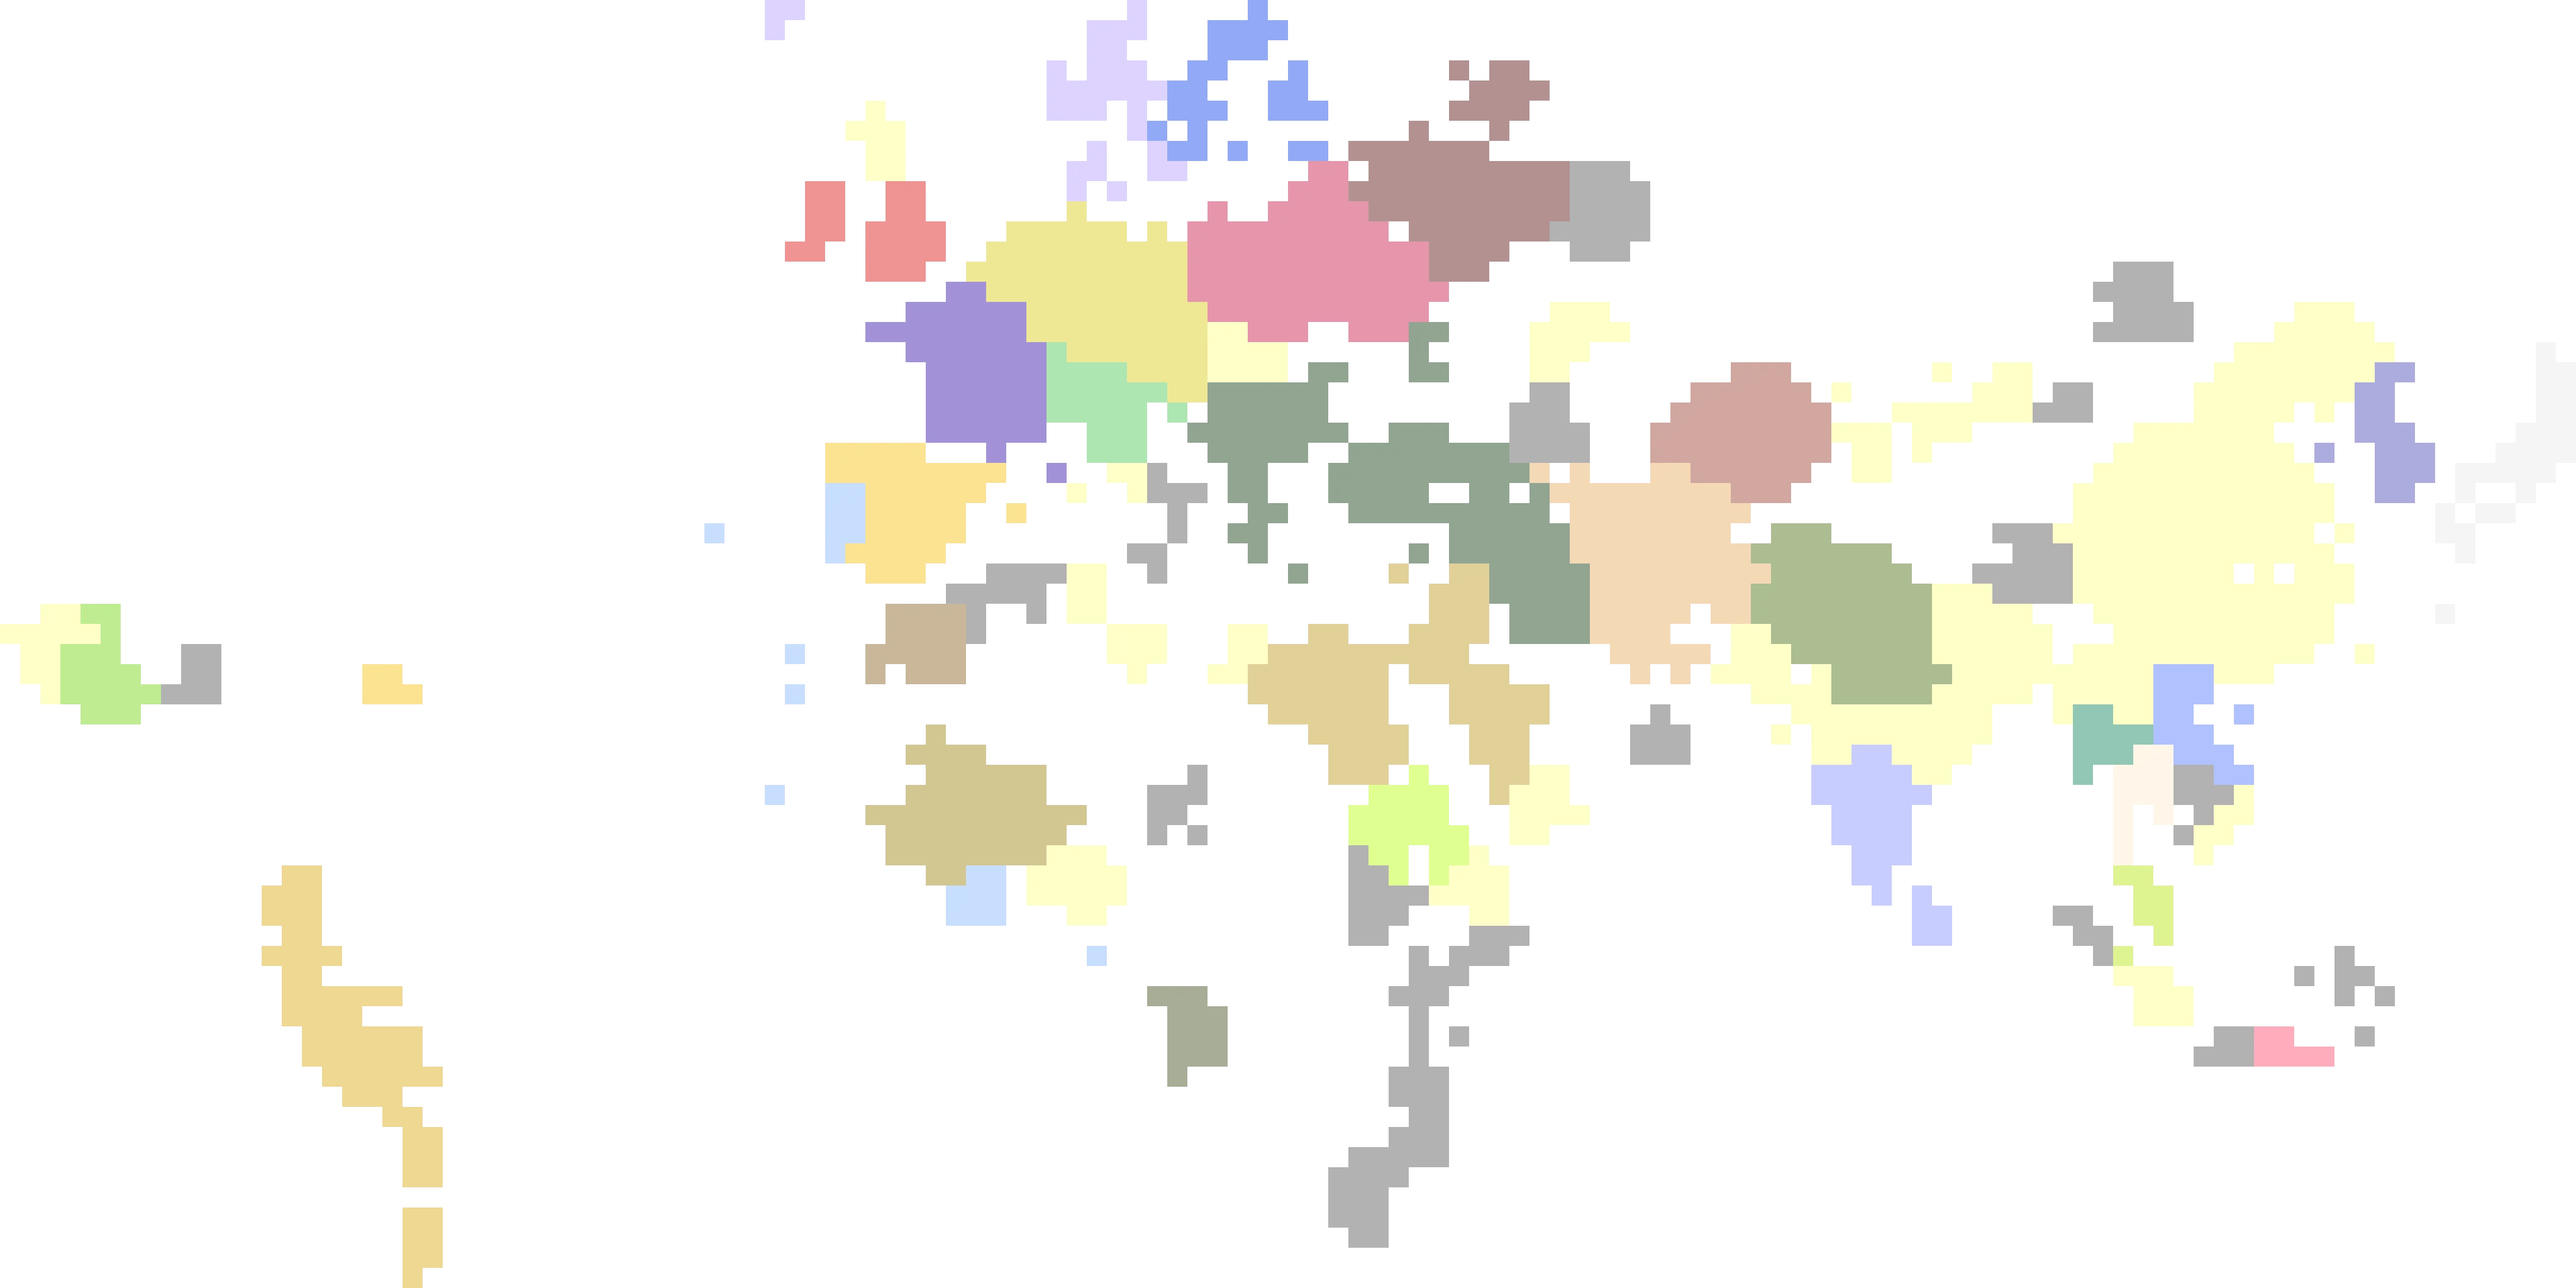
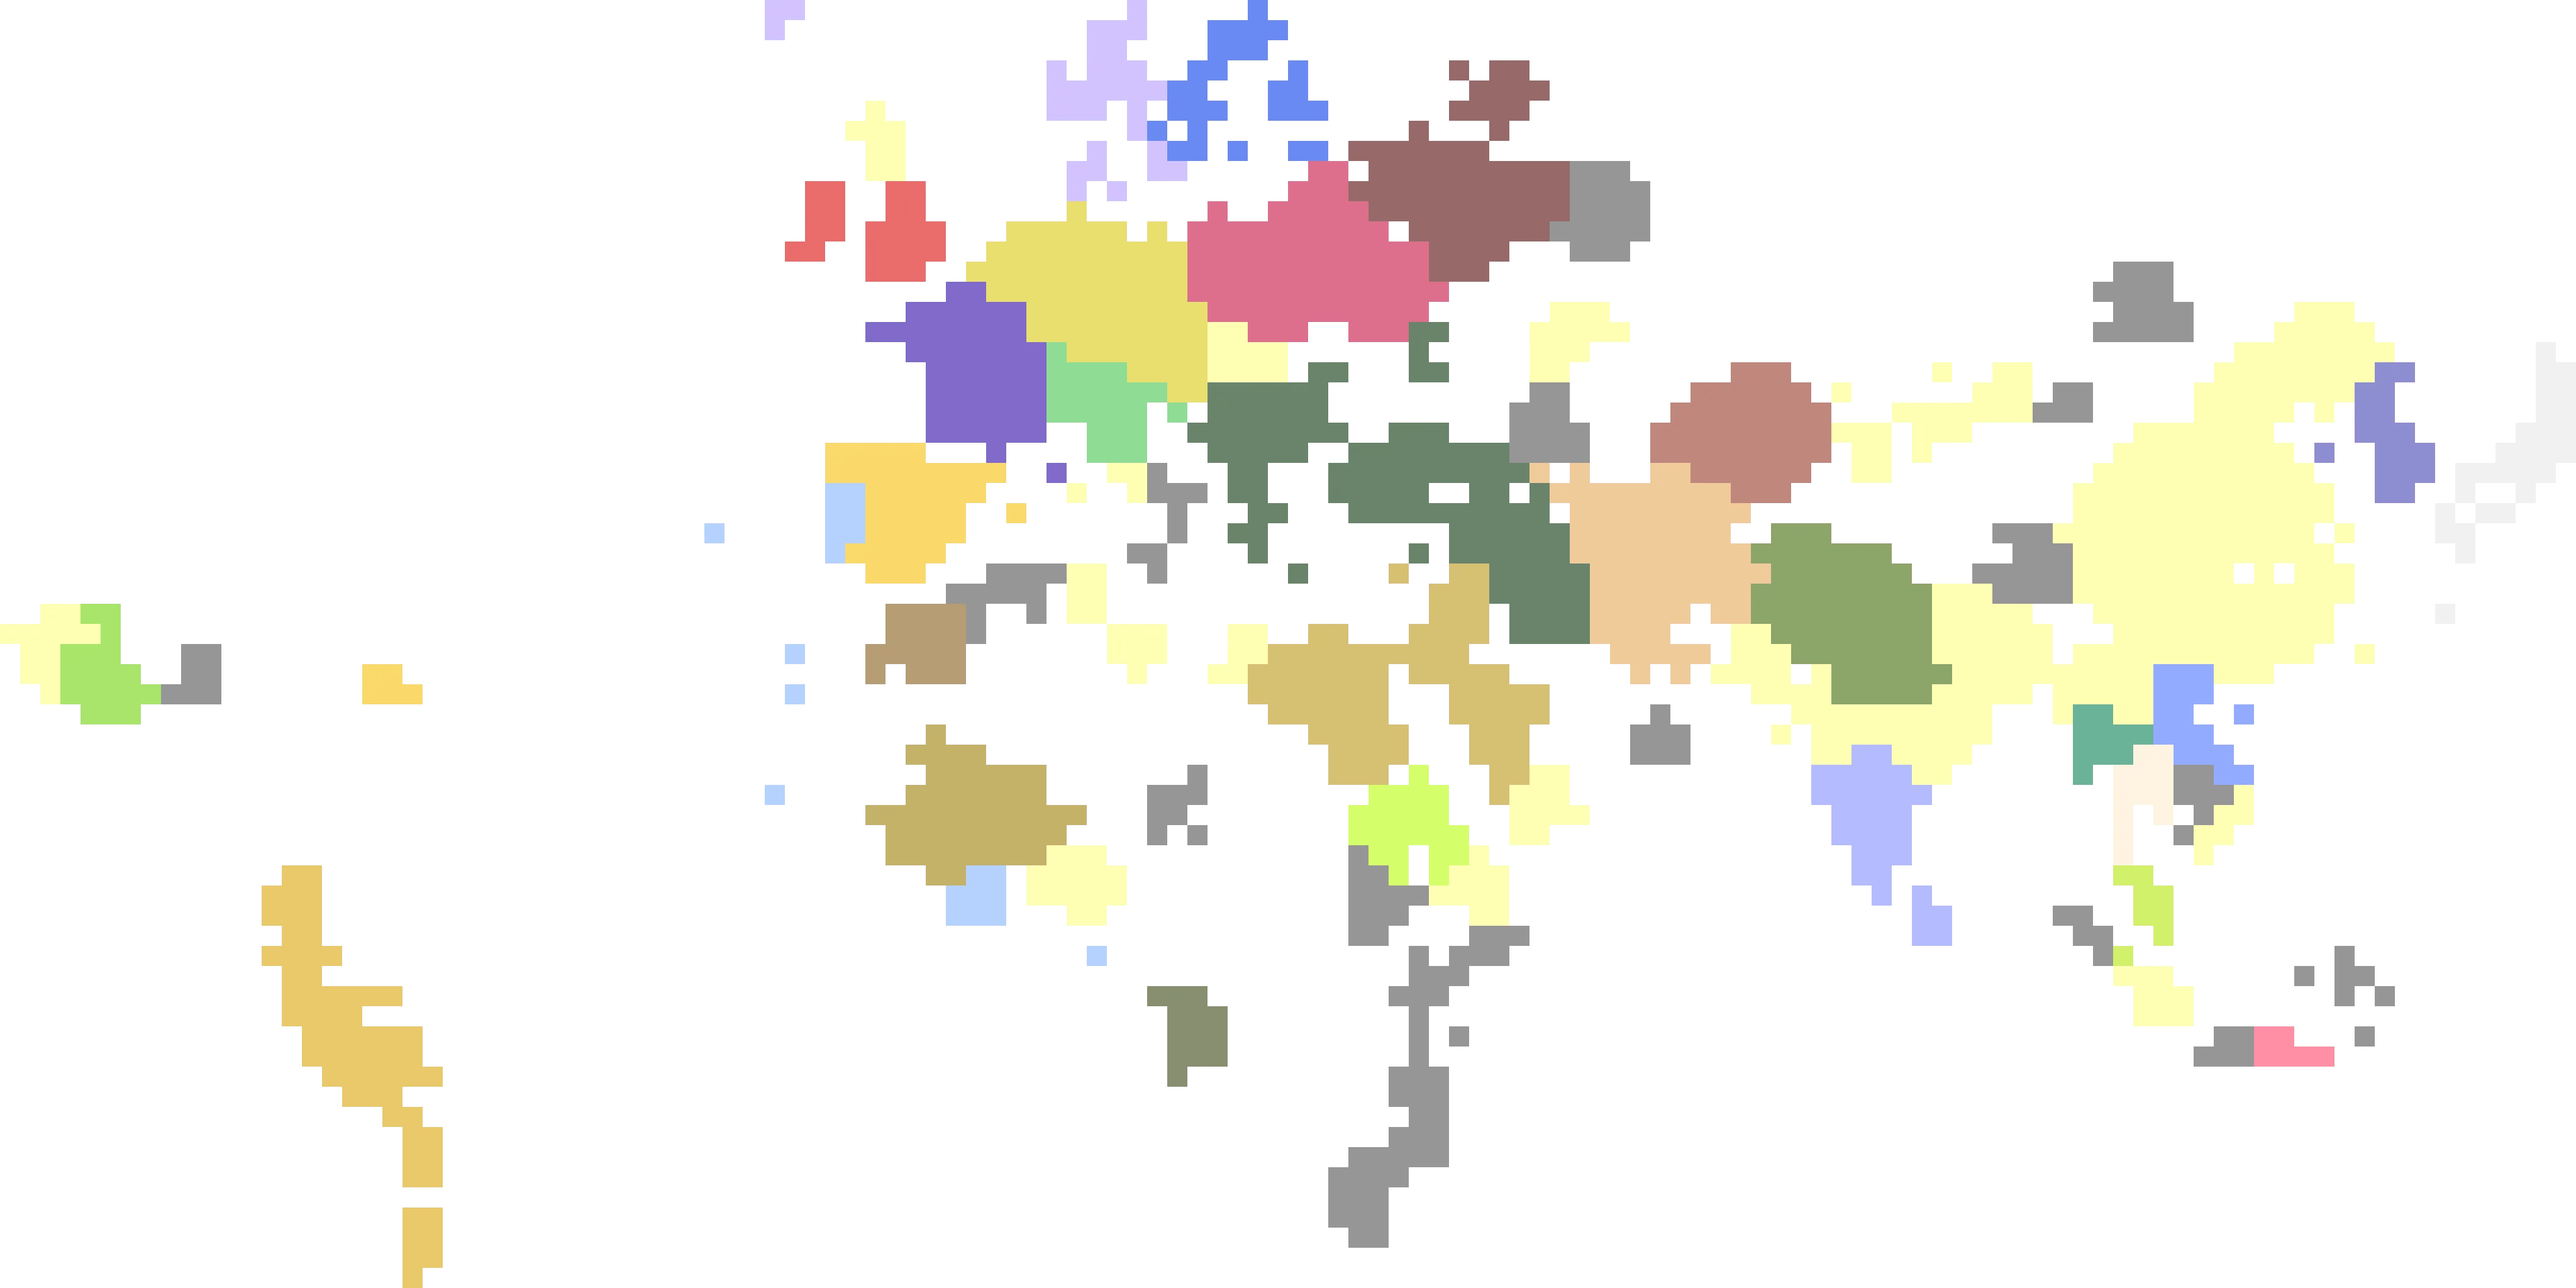
changed transparency of Culture Maps

diff --git a/python/DrawMaps/DrawScenarioCultureMaps.py b/python/DrawMaps/DrawScenarioCultureMaps.py
@@ -18,7 +18,7 @@ def DrawCultureMap(layers_config, scenario_name):
 		if iCiv is not None:
 			#print(f"Owner for tile {(x, y)}: {iCiv}")
 			color = LCivXML[iCiv]["Color"].get("ColorTypePrimary", (0, 0, 0, 255))
-			tile_color = color[:3] + (110,) 
+			tile_color = color[:3] + (150,) 
 			pixels[x, y] = tile_color
             
 	
@@ -29,7 +29,7 @@ def DrawCultureMap(layers_config, scenario_name):
 	image_path = config.OUTPUT_PATH / "maps/layers/Culture" / f"{scenario_name}.webp"
 	image.save(image_path, "WEBP", quality=80, method=6)  # Save as WebP with good compression
 	
-	add_layer_config_entry(layers_config, display_name, "Culture", Path(image_path).relative_to(config.OUTPUT_PATH), image.size, offset)
+	add_layer_config_entry(layers_config, display_name, "Scenario Culture", Path(image_path).relative_to(config.OUTPUT_PATH), image.size, offset)
 
 def DrawScenarioCultureMaps(layers_config):
     for file in Path(config.INPUT_PATH / "Assets/Maps/Scenario").glob("*.csv"):
